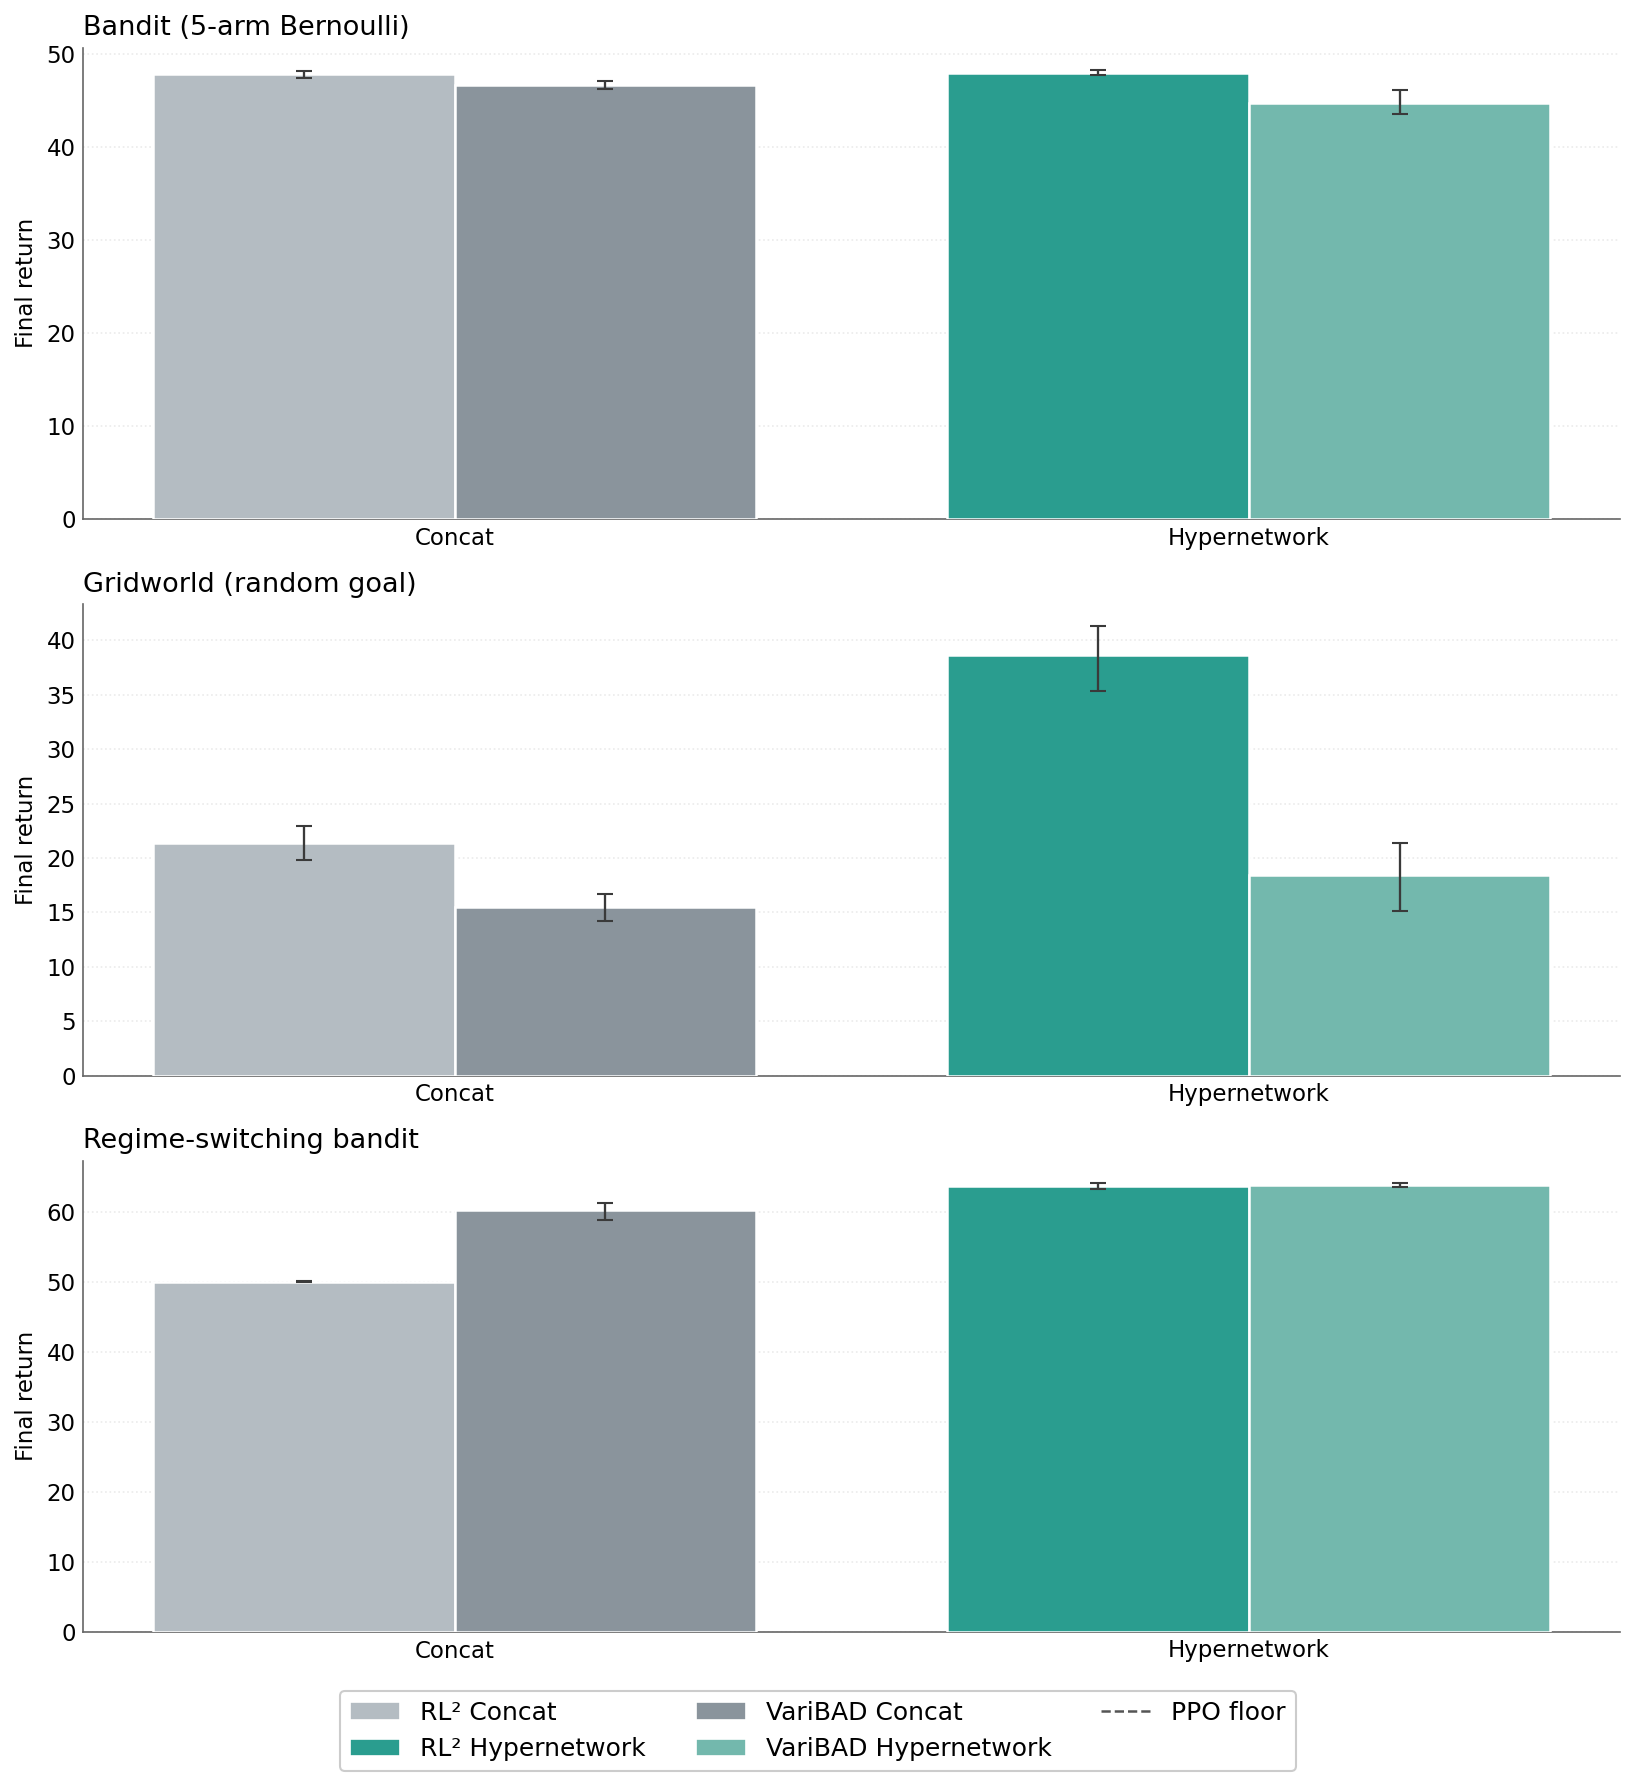
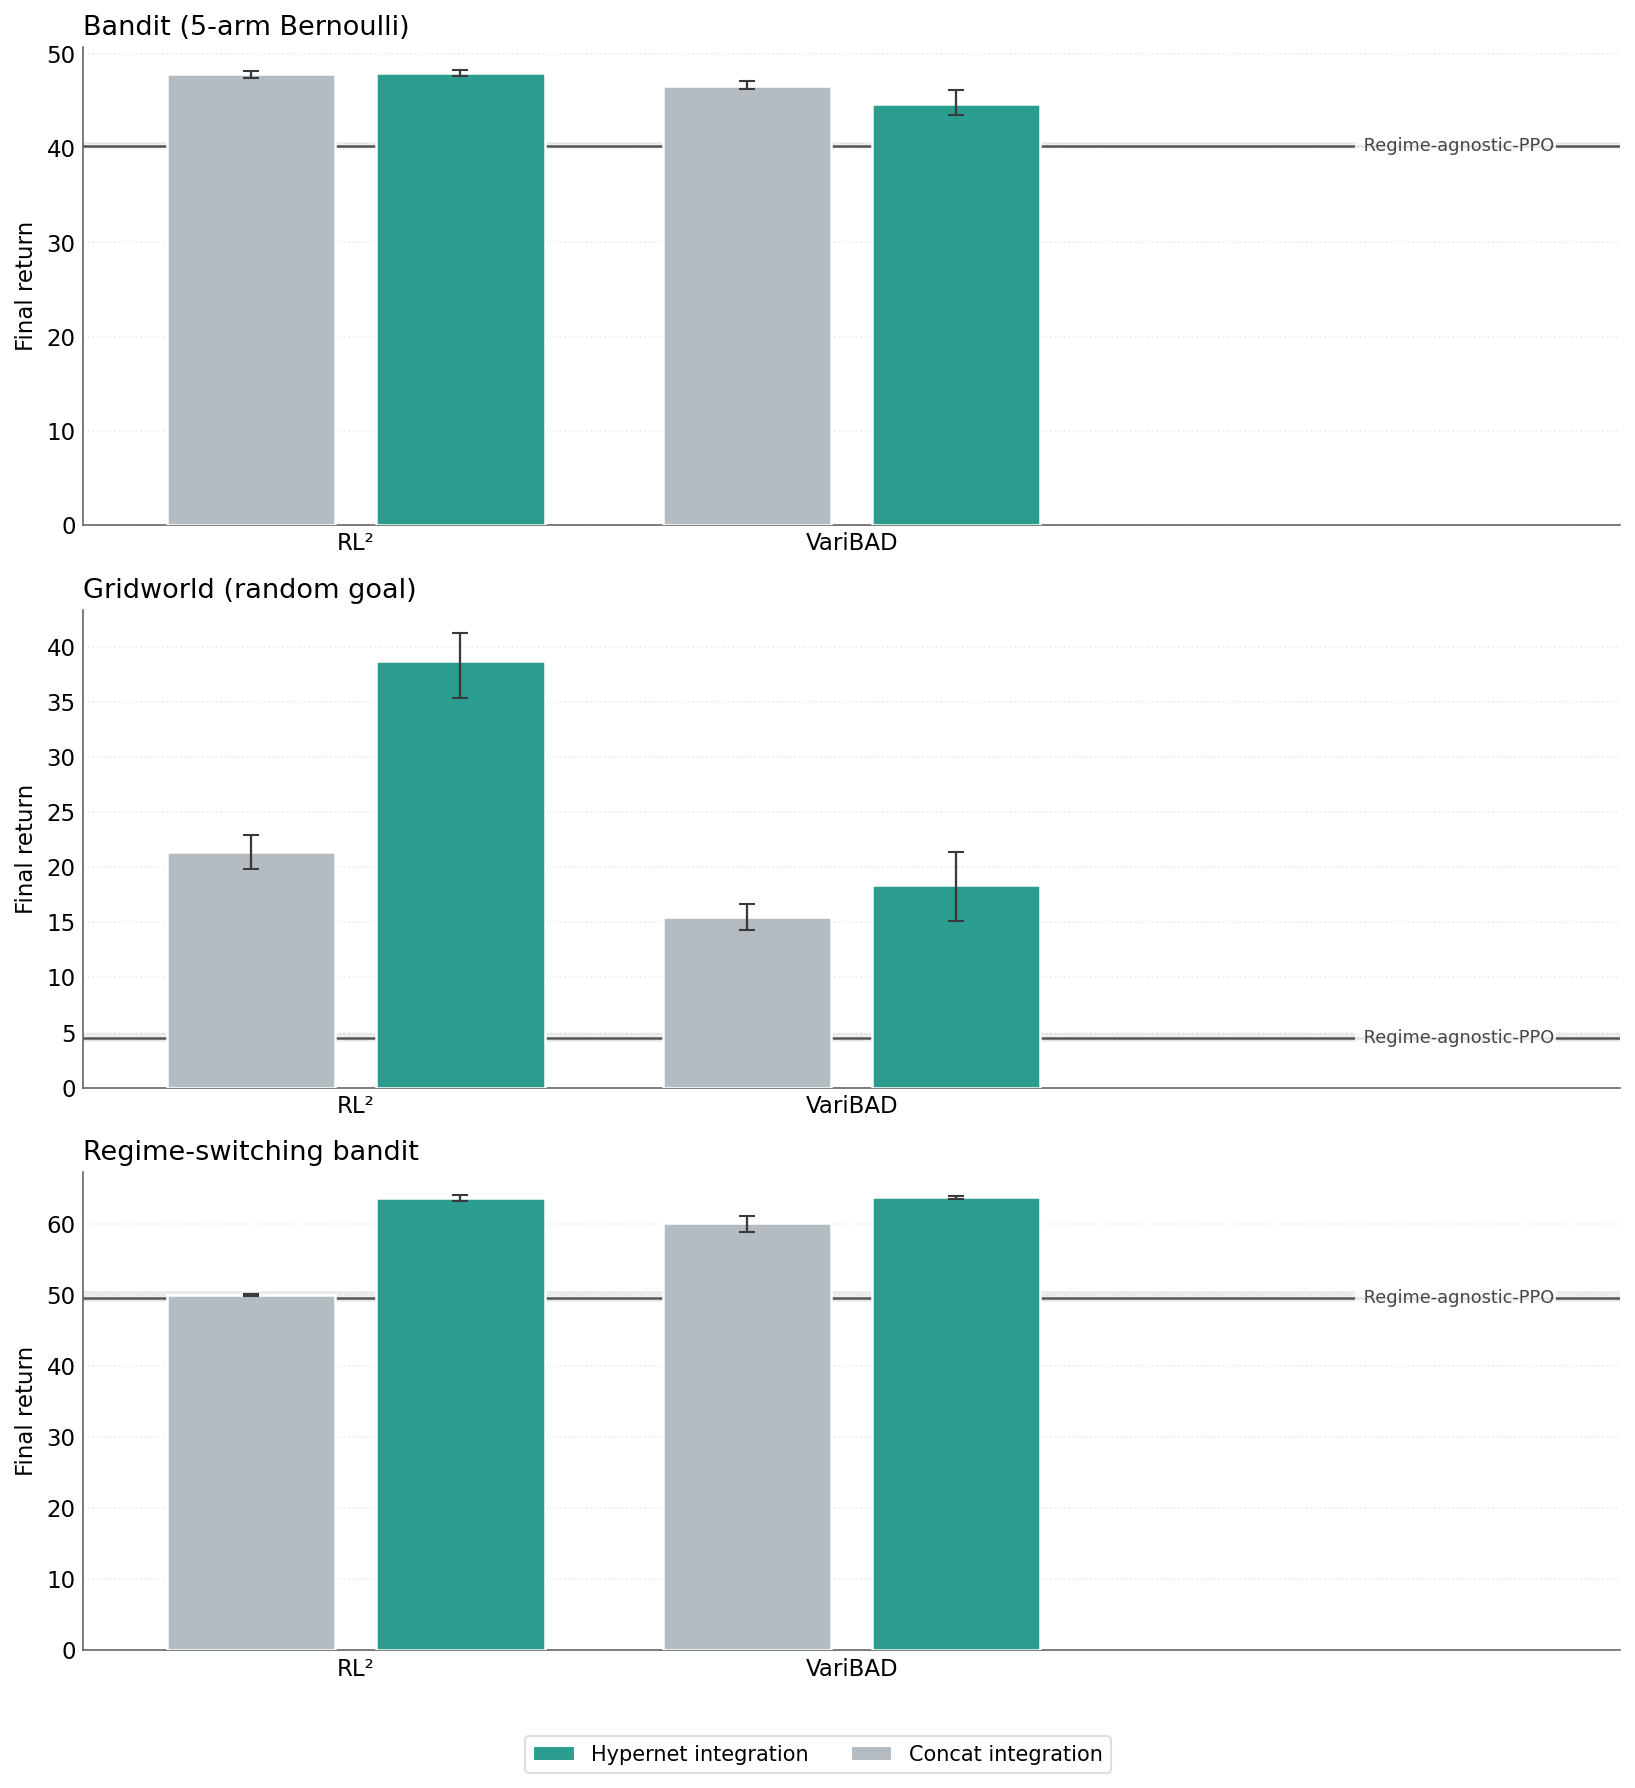
f

diff --git a/plotting/m4_plots.py b/plotting/m4_plots.py
@@ -1,17 +1,9 @@
 """M4 plot module — implementation-validation figure on the toy envs.
 
 Produces:
-  - factorial_toys.png — RL²/VariBAD × Concat/Hypernetwork across the
-    three M4 validation envs (bandit, gridworld, regime_bandit), with a
-    per-env PPO floor reference line. This single chart shows both the
-    M4 pass criterion (meta-RL clears floor) and the M5 integration
-    ablation (concat vs hypernet) on the toy envs.
-
-The factorial cells were collected during M5 Step-3 toy sweep, so the
-underlying stats JSON lives at `results/milestones/M5/stats_M5_factorial_toys.json`;
-the PPO floor numbers come from `results/milestones/M4/method_ranking.json`.
-The chart's *role* is M4 (implementation validation), so the PNG output
-is written under `figures/milestones/M4/`.
+  - factorial_toys.png — RL²/VariBAD × concat/hypernetwork across the three
+    validation environments. The solid Regime-agnostic-PPO line and its light
+    95% interval band use the original M4 baseline runs.
 
 CLI:
     uv run python -m plotting.m4_plots
@@ -22,7 +14,6 @@ import argparse
 import json
 from pathlib import Path
 from typing import Any
-
 import matplotlib.pyplot as plt
 import numpy as np
 
@@ -64,27 +55,25 @@ _TOY_ENV_LABELS = {
     "gridworld": "Gridworld (random goal)",
     "regime_bandit": "Regime-switching bandit",
 }
-_VARIANT_ORDER = ("concat_nobonus", "hypernet_nobonus")
-_VARIANT_LABELS = {
-    "concat_nobonus": "Concat",
-    "hypernet_nobonus": "Hypernetwork",
-}
-
-
-def _load_m4_floors() -> dict[str, float]:
-    path = foundations_dir() / "method_ranking.json"
-    if not resolve_data(path).exists():
-        return {}
-    with open(resolve_data(path)) as f:
-        d = json.load(f)
-    out: dict[str, float] = {}
-    for row in d.get("key_stats", {}).get("table", []):
-        if "ppo_floor" in row:
-            out[row["env"]] = float(row["ppo_floor"])
-    return out
+def _load_m4_validation() -> dict[str, dict[str, object]]:
+    candidates = (
+        foundations_dir() / "method_ranking.json",
+        RESULTS_ROOT / "_archive" / "milestones" / "M4" / "method_ranking.json",
+    )
+    for path in candidates:
+        resolved = resolve_data(path)
+        if resolved.exists():
+            with open(resolved) as f:
+                data = json.load(f)
+            return {row["env"]: row for row in data["key_stats"]["table"]}
+    return {}
 
 
 def plot_factorial_toys(out_path: Path) -> bool:
+    validation = _load_m4_validation()
+    if not validation:
+        print("[m4_plots] skip factorial_toys: missing M4 validation results")
+        return False
     stats_path = foundations_dir() / "stats_M5_factorial_toys.json"
     if not resolve_data(stats_path).exists():
         print(f"[m4_plots] skip factorial_toys: missing {stats_path}")
@@ -92,98 +81,65 @@ def plot_factorial_toys(out_path: Path) -> bool:
     with open(resolve_data(stats_path)) as f:
         stats = json.load(f)
 
-    floors = _load_m4_floors()
-
-    # Re-index configs by (method, env, variant_label). Tolerate older
-    # JSONs that carry an `exploration_bonus` field; bonus configs are
-    # ignored by the plot regardless (only `*_nobonus` variants are read).
+    variants = ("concat_nobonus", "hypernet_nobonus")
     by_key: dict[tuple[str, str, str], dict[str, Any]] = {}
-    for r in stats["configs"]:
-        bonus = r.get("exploration_bonus", False)
-        variant = f"{r['integration']}_{'bonus' if bonus else 'nobonus'}"
-        by_key[(r["method"], r["env"], variant)] = r
+    for row in stats["configs"]:
+        variant = f"{row['integration']}_{'bonus' if row.get('exploration_bonus', False) else 'nobonus'}"
+        by_key[(row["method"], row["env"], variant)] = row
 
     apply_style()
     fig, axes = plt.subplots(3, 1, figsize=(11.0, 12.0), sharey=False)
-
-    methods = ["rl2", "varibad"]
+    methods = ("rl2", "varibad")
     method_labels = {"rl2": "RL²", "varibad": "VariBAD"}
-    n_v = len(_VARIANT_ORDER)
-    bar_w = 0.38
+    bar_width = 0.34
+    integration_colors = {
+        "concat_nobonus": "#b4bcc2",
+        "hypernet_nobonus": "#2a9d8f",
+    }
 
-    def _cell_color(method: str, variant: str) -> str:
-        integ = "hypernet" if "hypernet" in variant else "concat"
-        return _CELL_COLORS[f"{method}_{integ}"]
-
-    floor_label_template = "PPO floor"
-    floor_drawn = False
-    legend_handles: list[Any] = []
-    from matplotlib.lines import Line2D as _Line2D
-    from matplotlib.patches import Patch as _Patch
-    for m in methods:
-        for v in _VARIANT_ORDER:
-            legend_handles.append(_Patch(
-                facecolor=_cell_color(m, v), edgecolor="white", linewidth=0.8,
-                label=f"{method_labels[m]} {_VARIANT_LABELS[v]}",
-            ))
-    legend_handles.append(_Line2D(
-        [0], [0], color="#555555", linestyle="--", linewidth=1.2,
-        label=floor_label_template,
-    ))
+    from matplotlib.patches import Patch
+    legend_handles: list[Any] = [
+        Patch(facecolor=integration_colors["hypernet_nobonus"], edgecolor="white",
+              label="Hypernet integration"),
+        Patch(facecolor=integration_colors["concat_nobonus"], edgecolor="white",
+              label="Concat integration"),
+    ]
 
     for ax, env in zip(axes, _TOY_ENVS):
-        for i_method, method in enumerate(methods):
-            means = []
-            errs_lo = []
-            errs_hi = []
-            for v in _VARIANT_ORDER:
-                key = (method, env, v)
-                if key in by_key:
-                    r = by_key[key]
-                    means.append(r["final_return_mean"])
-                    lo, hi = r["final_return_ci95"]
-                    errs_lo.append(r["final_return_mean"] - lo)
-                    errs_hi.append(hi - r["final_return_mean"])
-                else:
-                    means.append(np.nan)
-                    errs_lo.append(0.0)
-                    errs_hi.append(0.0)
-            offset = (i_method - 0.5) * bar_w
-            x = np.arange(n_v) + offset
-            yerr = np.array([errs_lo, errs_hi])
-            colors = [_cell_color(method, v) for v in _VARIANT_ORDER]
-            ax.bar(
-                x, means, bar_w, yerr=yerr, color=colors,
-                edgecolor="white", linewidth=1.2, capsize=4, zorder=3,
-                error_kw={"ecolor": "#3a3a3a", "elinewidth": 1.1},
-            )
-        floor_val = floors.get(env)
-        if floor_val is not None:
-            ax.axhline(
-                floor_val, color="#555555", linestyle="--", linewidth=1.2, zorder=2,
-            )
-            ax.text(
-                0.99, floor_val, f"  PPO floor = {floor_val:.1f}",
-                transform=ax.get_yaxis_transform(),
-                ha="left", va="center", fontsize=10, color="#444444", zorder=5,
-                bbox=dict(facecolor="white", edgecolor="none", alpha=0.85, pad=1.0),
-            )
-        ax.set_xticks(np.arange(n_v))
-        ax.set_xticklabels(
-            [_VARIANT_LABELS[v] for v in _VARIANT_ORDER], fontsize=11,
-        )
+        for method_index, method in enumerate(methods):
+            means, lows, highs = [], [], []
+            for variant in variants:
+                item = by_key[(method, env, variant)]
+                mean = float(item["final_return_mean"])
+                low, high = item["final_return_ci95"]
+                means.append(mean)
+                lows.append(mean - low)
+                highs.append(high - mean)
+            x = method_index + np.array([-bar_width * 0.62, bar_width * 0.62])
+            ax.bar(x, means, bar_width, yerr=np.array([lows, highs]),
+                   color=[integration_colors[variant] for variant in variants],
+                   edgecolor="white", linewidth=1.2, capsize=4, zorder=3,
+                   error_kw={"ecolor": "#3a3a3a", "elinewidth": 1.1})
+
+        ppo_mean = float(validation[env]["ppo_floor"])
+        ppo_low, ppo_high = validation[env]["ppo_ci"]
+        ax.axhspan(ppo_low, ppo_high, color="#555555", alpha=0.08, zorder=0)
+        ax.axhline(ppo_mean, color="#555555", linewidth=1.2, zorder=2)
+        ax.text(2.02, ppo_mean, " Regime-agnostic-PPO", va="center", ha="left", fontsize=8.5,
+                color="#444444", zorder=4, clip_on=False,
+                bbox=dict(facecolor="white", edgecolor="none", alpha=0.85, pad=1.0))
+        ax.set_xlim(-0.55, 2.55)
+        ax.set_xticks(np.arange(len(methods)))
+        ax.set_xticklabels([method_labels[method] for method in methods], fontsize=11)
         ax.tick_params(axis="y", labelsize=11)
         ax.set_ylabel("Final return", fontsize=11)
         ax.set_title(_TOY_ENV_LABELS[env], fontsize=13, loc="left")
         polish(ax)
 
-    fig.legend(
-        handles=legend_handles,
-        loc="lower center", ncol=3, fontsize=12,
-        bbox_to_anchor=(0.5, -0.005), frameon=True,
-        facecolor="white", edgecolor="#cccccc", framealpha=1.0,
-    )
-    fig.tight_layout(rect=[0, 0.05, 1, 0.99])
+    fig.legend(handles=legend_handles, loc="lower center", ncol=2, fontsize=10,
+               bbox_to_anchor=(0.5, -0.005), frameon=True, facecolor="white",
+               edgecolor="#dddddd", framealpha=0.95)
+    fig.tight_layout(rect=[0, 0.04, 1, 0.99])
     out_path.parent.mkdir(parents=True, exist_ok=True)
     fig.savefig(out_path)
     plt.close(fig)

diff --git a/scripts/run_matched_programme.py b/scripts/run_matched_programme.py
@@ -227,23 +227,20 @@ def build_plan() -> list[Stage]:
             key, "medium", CONFIGS / f"{key}.yaml", MEDIUM_EXPERIMENT[key], est=80,
             depends_on=gate,
         ))
-    for key in VARIANTS:
-        stages.append(_train(
-            key, "medium", CONFIGS / f"{key}.yaml", MEDIUM_EXPERIMENT[key], est=40,
-            depends_on=gate,
-        ))
-    medium_training = [s.name for s in stages if s.kind == "train"]
-
-    # Chapter 4's prerequisite: the reference ordering must hold before any
-    # variant is placed on the scale. It is cheap, it can fail, and everything
-    # normalised depends on it, so it runs before the analyses rather than
-    # being discovered wrong at the figures.
+    # The reference ordering must hold before any variant is trained. It is
+    # cheap, it can fail, and every normalised comparison depends on it.
     reference_training = [f"train:{k}" for k in REFERENCES]
     stages.append(_analysis(
         "gate:reference_ordering", "medium", "scripts.reference_ordering_gate",
         final / "reference_ordering_gate.json",
         depends_on=reference_training, est=1,
     ))
+    for key in VARIANTS:
+        stages.append(_train(
+            key, "medium", CONFIGS / f"{key}.yaml", MEDIUM_EXPERIMENT[key], est=40,
+            depends_on=["gate:reference_ordering"],
+        ))
+    medium_training = [s.name for s in stages if s.kind == "train"]
     medium_gate = medium_training + ["gate:reference_ordering"]
 
     # ---- Phase 2: medium environment, analyses -------------------------

diff --git a/REPRODUCE.md b/REPRODUCE.md
@@ -1,0 +1,73 @@
+# Reproducing the thesis results
+
+This file is the executable guide for reproducing the experiments in *Trading in the Dark:
+Belief-Conditioned Meta-RL for Regime-Switching Market Making*.
+
+## What you need
+
+- The archived repository commit recorded with the thesis results.
+- [uv](https://docs.astral.sh/uv/), which installs the required Python 3.12 environment.
+- A machine with enough memory for JAX training. Record the operating system, accelerator, driver,
+  and numerical-library versions used for the run.
+
+The full programme is computationally expensive. A fresh run should reproduce the experimental
+procedure and the qualitative conclusions, but exact floating-point values can vary across
+hardware.
+
+## Set up the environment
+
+Run these commands from the repository root:
+
+```bash
+git checkout <archived-commit>
+uv sync --locked
+uv run python -c "import jax; print(jax.devices())"
+```
+
+`uv sync --locked` creates the environment from `uv.lock` without changing dependency versions.
+
+## Check the pipeline before training
+
+First run the synthetic version of the complete pipeline. It checks that the analysis and figure
+generation steps work without spending the full training budget:
+
+```bash
+uv run python -m scripts.run_matched_programme --dummy
+uv run python -m scripts.thesis_contract
+```
+
+To inspect the full training plan and its time estimate without running it:
+
+```bash
+uv run python -m scripts.run_matched_programme --dry-run
+```
+
+## Run the full programme
+
+```bash
+uv run python -m scripts.run_matched_programme
+uv run python -m scripts.thesis_contract --strict
+```
+
+The programme runs the steps in this order:
+
+1. Check that the methods use the specified inputs, network sizes, optimiser settings, and training budget.
+2. Validate each market-making setting against R1--R4 and run the standard benchmark checks.
+3. Train the four reference agents: Regime-agnostic PPO, Stacked-observation PPO, Belief-PPO, and Oracle-PPO.
+4. Check that Belief-PPO exceeds Regime-agnostic PPO and Oracle-PPO exceeds Belief-PPO before training the four belief-conditioned variants.
+5. Train the variants, evaluate every trained policy on fresh episodes, run the belief and behavioural diagnostics, apply the statistical tests, and regenerate the figures.
+
+The driver writes progress to `results/analysis/programme_status.json`. Check it with:
+
+```bash
+uv run python -m scripts.status
+```
+
+## Outputs
+
+- `results/foundations/` contains environment and implementation-validation results.
+- `results/medium/` contains the trained reference and variant runs.
+- `results/analysis/` contains evaluation returns, diagnostic results, and statistical tables.
+- `figures/` contains the generated figures. The thesis uses the matching copies in the thesis repository.
+
+Each run writes its resolved configuration, commit identifier, and per-seed results alongside its outputs.

diff --git a/README.md b/README.md
@@ -1,1 +1,17 @@
-# jax-engine-rl
+# Belief-Conditioned Meta-RL for Regime-Switching Market Making
+
+This repository contains the code and experiment configurations for the accompanying master's
+thesis. For the complete, executable reproduction instructions, see
+[REPRODUCE.md](REPRODUCE.md).
+
+Quick start:
+
+```bash
+git checkout <the archived commit recorded with the thesis results>
+uv sync --locked
+uv run python -m scripts.run_matched_programme --dry-run
+```
+
+The full run trains the agents, evaluates them on fresh episodes, runs the statistical analyses,
+and regenerates the figures. It requires substantial compute; use the dummy run in
+`REPRODUCE.md` to check the full pipeline first.
